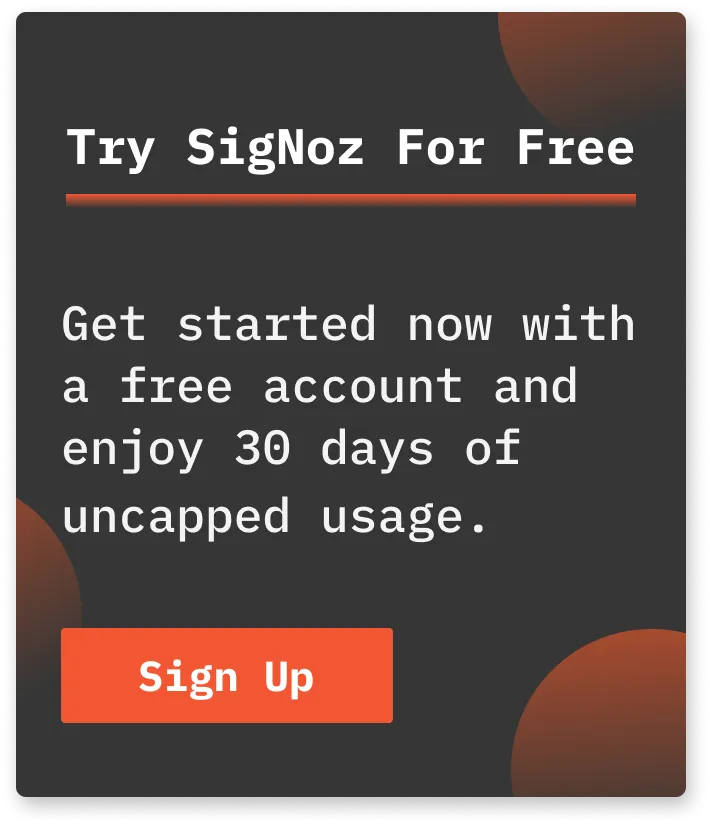
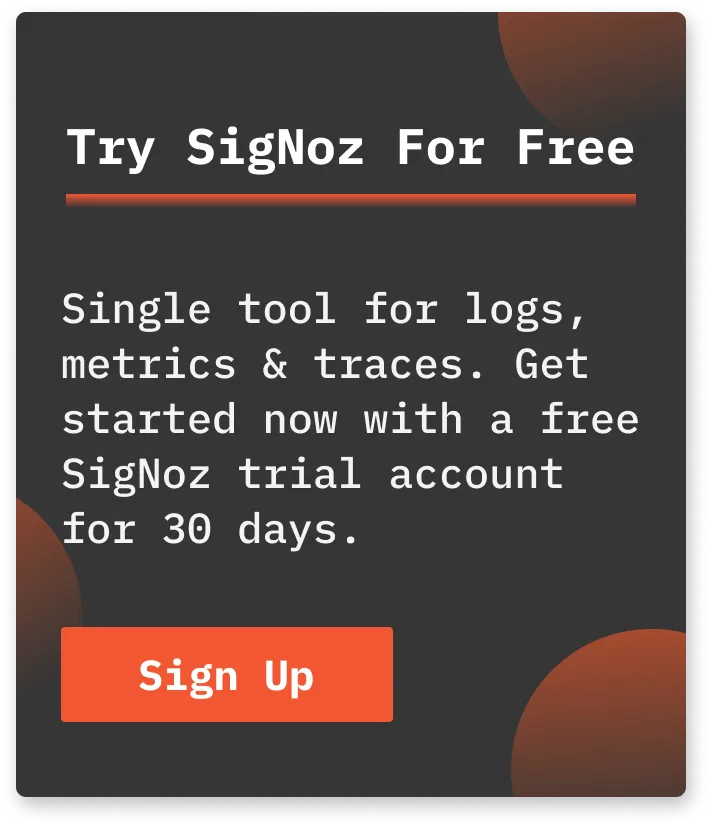
Fixed CTA (#1490)

Changed region(s): [[0.062, 0.3333, 0.8986, 0.6667], [0.1859, 0.7879, 0.3408, 0.8485], [0.3718, 0.8182, 0.4338, 0.8485]]

diff --git a/src/pages/teams/index.tsx b/src/pages/teams/index.tsx
@@ -7,7 +7,7 @@ import { HubspotProvider } from "@aaronhayes/react-use-hubspot-form";
 
 const TEAMS_DATA = {
   TITLE: "SigNoz Cloud is the easiest way of running SigNoz",
-  DESC: "Experience SigNoz effortlessly. No installation, maintenance, or scaling needed. Get started now with a free account and enjoy 30 days of uncapped usage.",
+  DESC: "Experience SigNoz effortlessly. No installation, maintenance, or scaling needed. Get started now with a free trial account for 30 days.",
   PORTAL_ID: "22308423",
   FORM_ID: "56f370ae-d84e-49b6-8629-134dbb74d90a ",
   FEATURE_POINTS: [

diff --git a/src/pages/oss-to-cloud/index.tsx b/src/pages/oss-to-cloud/index.tsx
@@ -7,7 +7,7 @@ import { HubspotProvider } from "@aaronhayes/react-use-hubspot-form";
 
 const OSS_TO_CLOUD_DATA = {
   TITLE: "SigNoz Cloud is the easiest way of running SigNoz",
-  DESC: "Experience SigNoz effortlessly. No installation, maintenance, or scaling needed. Sign up for a free account and enjoy 30 days of uncapped usage.",
+  DESC: "Experience SigNoz effortlessly. No installation, maintenance, or scaling needed. Get started now with a free trial account for 30 days.",
   PORTAL_ID: "22308423",
   FORM_ID: "56f370ae-d84e-49b6-8629-134dbb74d90a ",
   FEATURE_POINTS: [

diff --git a/blog/2024-01-19-postgresql-monitoring.md b/blog/2024-01-19-postgresql-monitoring.md
@@ -362,7 +362,7 @@ A monitoring tool that allows you to store, query, and visualize PostgreSQL moni
 
 SigNoz is a full-stack open-source observability tool that can help you monitor your PostgreSQL instances while also providing monitoring for the rest of your application. It provides metrics, logs, and traces under a single pane of glass. When you use SigNoz for PostgreSQL monitoring, you can correlate your important metrics with traces and logs, and that can help you debug potential issues quickly.
 
-SigNoz cloud is the easiest way to run SigNoz. You can sign up [here](https://signoz.io/teams/) for a free account and get 30 days of free uncapped usage.
+SigNoz cloud is the easiest way to run SigNoz. You can sign up [here](https://signoz.io/teams/) for a free account and get 30 days of unlimited access to all features.
 
 You can also install and self-host SigNoz yourself. Check out the [docs](https://signoz.io/docs/install/) for installing self-host SigNoz.
 

diff --git a/blog/2023-11-17-opentelemetry-operator-complete-guide.md b/blog/2023-11-17-opentelemetry-operator-complete-guide.md
@@ -102,7 +102,7 @@ In this section, you will learn how an OpenTelemetry Operator can be set up and 
 
 You need a backend to which you can send the collected data for monitoring and visualization. [SigNoz](https://signoz.io/) is an OpenTelemetry-native APM that is well-suited for visualizing OpenTelemetry data.
 
-SigNoz cloud is the easiest way to run SigNoz. You can sign up [here](https://signoz.io/teams/) for a free account and get 30 days of free uncapped usage.
+SigNoz cloud is the easiest way to run SigNoz. You can sign up [here](https://signoz.io/teams/) for a free account and get 30 days of unlimited access to all features.
 
 You can also install and self-host SigNoz yourself. Check out the [docs](https://signoz.io/docs/install/) for installing self-host SigNoz.
 

diff --git a/blog/2023-11-22-opentelemetry-postgresql-metrics-monitoring.md b/blog/2023-11-22-opentelemetry-postgresql-metrics-monitoring.md
@@ -158,7 +158,7 @@ Once you have completed these preparations, you can install and run the OpenTele
 
 You need a backend to which you can send the collected data for monitoring and visualization. [SigNoz](https://signoz.io/) is an OpenTelemetry-native APM that is well-suited for visualizing OpenTelemetry data.
 
-SigNoz cloud is the easiest way to run SigNoz. You can sign up [here](https://signoz.io/teams/) for a free account and get 30 days of free uncapped usage.
+SigNoz cloud is the easiest way to run SigNoz. You can sign up [here](https://signoz.io/teams/) for a free account and get 30 days of unlimited access to all features.
 
 You can also install and self-host SigNoz yourself. Check out the [docs](https://signoz.io/docs/install/) for installing self-host SigNoz.
 

diff --git a/blog/2023-11-24-opentelemetry-apache-server-metrics-monitoring.md b/blog/2023-11-24-opentelemetry-apache-server-metrics-monitoring.md
@@ -133,7 +133,7 @@ In this section, you will learn how Apache metrics can be collected with the Ope
 
 You need a backend to which you can send the collected data for monitoring and visualization. [SigNoz](https://signoz.io/) is an OpenTelemetry-native APM that is well-suited for visualizing OpenTelemetry data.
 
-SigNoz cloud is the easiest way to run SigNoz. You can sign up [here](https://signoz.io/teams/) for a free account and get 30 days of free uncapped usage.
+SigNoz cloud is the easiest way to run SigNoz. You can sign up [here](https://signoz.io/teams/) for a free account and get 30 days of unlimited access to all features.
 
 You can also install and self-host SigNoz yourself. Check out the [docs](https://signoz.io/docs/install/) for installing self-host SigNoz.
 

diff --git a/blog/2023-11-24-opentelemetry-mysql-metrics-monitoring.md b/blog/2023-11-24-opentelemetry-mysql-metrics-monitoring.md
@@ -171,7 +171,7 @@ This is a very simple Docker compose file that can spin up MySQL Database in no 
 
 You need a backend to which you can send the collected data for monitoring and visualization. [SigNoz](https://signoz.io/) is an OpenTelemetry-native APM that is well-suited for visualizing OpenTelemetry data.
 
-SigNoz cloud is the easiest way to run SigNoz. You can sign up [here](https://signoz.io/teams/) for a free account and get 30 days of free uncapped usage.
+SigNoz cloud is the easiest way to run SigNoz. You can sign up [here](https://signoz.io/teams/) for a free account and get 30 days of unlimited access to all features.
 
 You can also install and self-host SigNoz yourself. Check out the [docs](https://signoz.io/docs/install/) for installing self-host SigNoz.
 

diff --git a/blog/2023-11-29-memcached-monitoring-with-opentelemetry.md b/blog/2023-11-29-memcached-monitoring-with-opentelemetry.md
@@ -158,7 +158,7 @@ Once you have completed these preparations, you can install and run the OpenTele
 
 You need a backend to which you can send the collected data for monitoring and visualization. [SigNoz](https://signoz.io/) is an OpenTelemetry-native APM that is well-suited for visualizing OpenTelemetry data.
 
-SigNoz cloud is the easiest way to run SigNoz. You can sign up [here](https://signoz.io/teams/) for a free account and get 30 days of free uncapped usage.
+SigNoz cloud is the easiest way to run SigNoz. You can sign up [here](https://signoz.io/teams/) for a free account and get 30 days of unlimited access to all features.
 
 You can also install and self-host SigNoz yourself. Check out the [docs](https://signoz.io/docs/install/) for installing self-host SigNoz.
 

diff --git a/blog/2023-11-29-mongodb-metrics-monitoring-with-opentelemetry.md b/blog/2023-11-29-mongodb-metrics-monitoring-with-opentelemetry.md
@@ -167,7 +167,7 @@ This is a very simple Docker compose file that can spin up MongoDB Database in n
 
 You need a backend to which you can send the collected data for monitoring and visualization. [SigNoz](https://signoz.io/) is an OpenTelemetry-native APM that is well-suited for visualizing OpenTelemetry data.
 
-SigNoz cloud is the easiest way to run SigNoz. You can sign up [here](https://signoz.io/teams/) for a free account and get 30 days of free uncapped usage.
+SigNoz cloud is the easiest way to run SigNoz. You can sign up [here](https://signoz.io/teams/) for a free account and get 30 days of unlimited access to all features.
 
 You can also install and self-host SigNoz yourself. Check out the [docs](https://signoz.io/docs/install/) for installing self-host SigNoz.
 

diff --git a/blog/2023-12-04-eks-monitoring-with-opentelemetry.md b/blog/2023-12-04-eks-monitoring-with-opentelemetry.md
@@ -180,7 +180,7 @@ A list of all metric definitions can be found <a href = "https://github.com/open
 
 You need a backend to which you can send the collected data for monitoring and visualization. [SigNoz](https://signoz.io/) is an OpenTelemetry-native APM that is well-suited for visualizing OpenTelemetry data.
 
-SigNoz cloud is the easiest way to run SigNoz. You can sign up [here](https://signoz.io/teams/) for a free account and get 30 days of free uncapped usage.
+SigNoz cloud is the easiest way to run SigNoz. You can sign up [here](https://signoz.io/teams/) for a free account and get 30 days of unlimited access to all features.
 
 You can also install and self-host SigNoz yourself. Check out the [docs](https://signoz.io/docs/install/) for installing self-host SigNoz.
 

diff --git a/blog/2023-12-04-opentelemetry-kubernetes-cluster-metrics-monitoring.md b/blog/2023-12-04-opentelemetry-kubernetes-cluster-metrics-monitoring.md
@@ -126,7 +126,7 @@ In this section, you will learn how Kubernetes cluster metrics can be collected 
 
 You need a backend to which you can send the collected data for monitoring and visualization. [SigNoz](https://signoz.io/) is an OpenTelemetry-native APM that is well-suited for visualizing OpenTelemetry data.
 
-SigNoz cloud is the easiest way to run SigNoz. You can sign up [here](https://signoz.io/teams/) for a free account and get 30 days of free uncapped usage.
+SigNoz cloud is the easiest way to run SigNoz. You can sign up [here](https://signoz.io/teams/) for a free account and get 30 days of unlimited access to all features.
 
 You can also install and self-host SigNoz yourself. Check out the [docs](https://signoz.io/docs/install/) for installing self-host SigNoz.
 

diff --git a/blog/2024-01-10-opentelemetry-couchdb.md b/blog/2024-01-10-opentelemetry-couchdb.md
@@ -138,7 +138,7 @@ Once these preparations are complete, you're ready to proceed with installing an
 
 You need a backend to which you can send the collected data for monitoring and visualization. [SigNoz](https://signoz.io/) is an OpenTelemetry-native APM that is well-suited for visualizing OpenTelemetry data.
 
-SigNoz cloud is the easiest way to run SigNoz. You can sign up [here](https://signoz.io/teams/) for a free account and get 30 days of free uncapped usage.
+SigNoz cloud is the easiest way to run SigNoz. You can sign up [here](https://signoz.io/teams/) for a free account and get 30 days of unlimited access to all features.
 
 You can also install and self-host SigNoz yourself. Check out the [docs](https://signoz.io/docs/install/) for installing self-host SigNoz.
 
